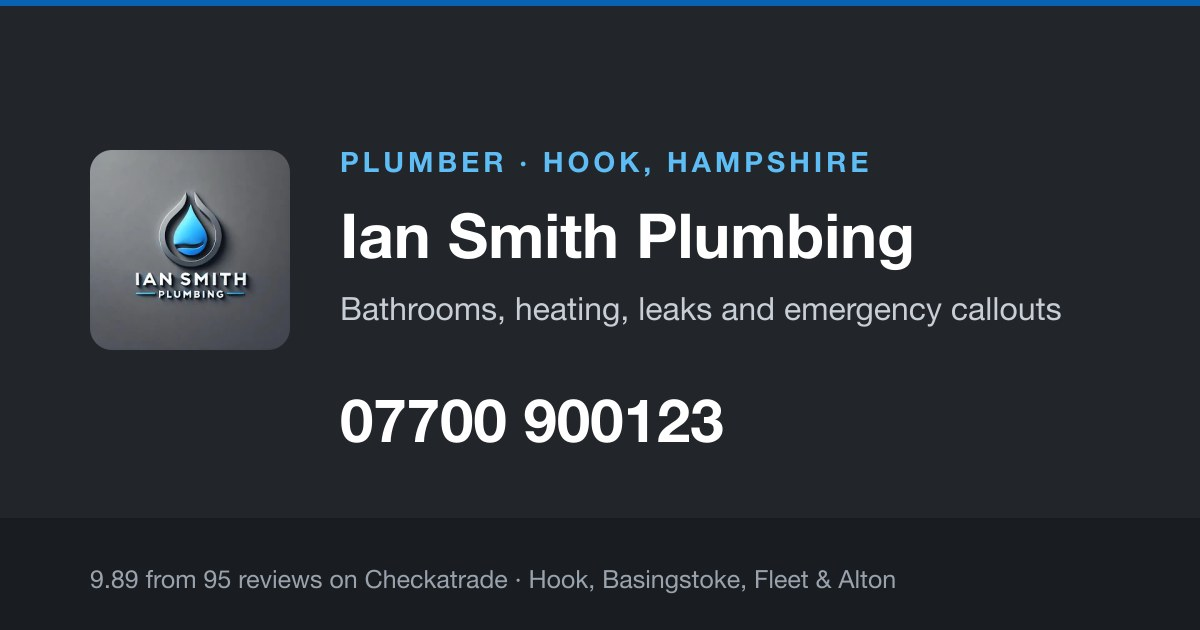
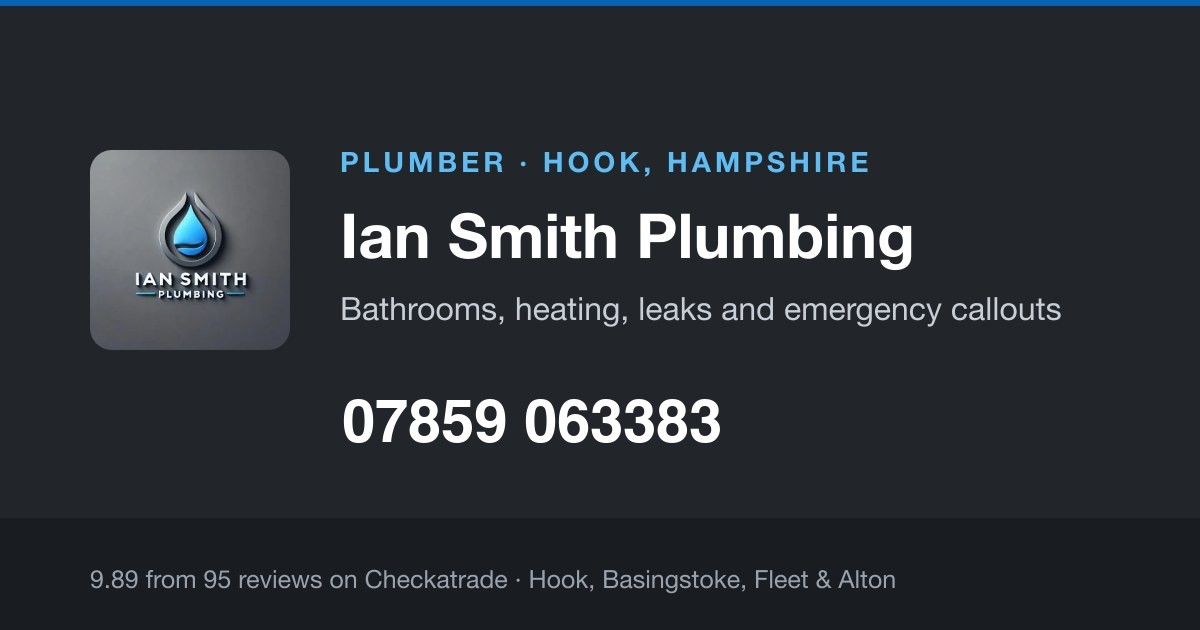
chore: go live with Ian's real details; drop template and demo framing
- client.ts: real phone (07859 063383) and siteUrl (iansmithplumbing.co.uk);
  demo examples and comments removed
- og.jpg: share card showed the demo number; now shows his real one
- SCAFFOLD: rewritten as the live site's spec (launch checklist, no demo
  config, no per-client table)
- README, package name, FIXES note and a CSS comment updated to match

Changed region(s): [[0.2775, 0.6333, 0.6167, 0.7238]]

diff --git a/src/config/client.ts b/src/config/client.ts
@@ -20,8 +20,8 @@ export interface Rating {
 }
 
 export interface Area {
-  slug: string     // "middleford"
-  name: string     // "Middleford"
+  slug: string     // "hook"
+  name: string     // "Hook"
   blurb?: string   // optional one-liner for the area page
 }
 
@@ -52,7 +52,7 @@ export interface ClientConfig {
   headline?: string
 
   // site
-  siteUrl: string               // 'https://tradedemo.mpconsult.uk' — no trailing slash
+  siteUrl: string               // 'https://iansmithplumbing.co.uk' — no trailing slash
   ogImage?: string              // '/og.jpg' — 1200×630; omitted = no og:image tags
   /** Hero photograph. Omitted = text-only hero. */
   heroImage?: Photo
@@ -61,9 +61,9 @@ export interface ClientConfig {
   logo?: Photo
 
   // contact
-  phone: string                 // display: "07700 900123"
-  phoneE164: string             // tel: href, "+447700900123"
-  whatsappNumber: string        // wa.me, no + and no spaces: "447700900123"
+  phone: string                 // display: "07859 063383"
+  phoneE164: string             // tel: href, "+447859063383"
+  whatsappNumber: string        // wa.me, no + and no spaces: "447859063383"
   email?: string
 
   // credentials
@@ -113,7 +113,7 @@ export interface ClientConfig {
   eventEndpoint?: string        // n8n webhook for click events
 }
 
-// src/config/client.ts — DEMO DATA. Overwrite in each client repo.
+// src/config/client.ts — Ian Smith Plumbing.
 export const client: ClientConfig = {
   businessName: 'Ian Smith Plumbing',
   tagline: 'Bathrooms, heating, leaks and emergency callouts',
@@ -125,7 +125,7 @@ export const client: ClientConfig = {
   owner: 'Ian',
   voice: 'i',
 
-  siteUrl: 'https://tradedemo.mpconsult.uk',
+  siteUrl: 'https://iansmithplumbing.co.uk',
   ogImage: '/og.jpg',
 
   // Placeholder stock, free under the Pexels licence, no attribution required:
@@ -139,10 +139,11 @@ export const client: ClientConfig = {
     alt: 'Plumber fitting a radiator valve, pipe wrenches laid out beside them',
   },
 
-  // Ofcom's reserved drama range — never a real subscriber
-  phone: '07700 900123',
-  phoneE164: '+447700900123',
-  whatsappNumber: '447700900123',
+  // His mobile — calls and WhatsApp both. They only diverge if a call-tracking
+  // number is added later: phoneE164 changes, whatsappNumber stays.
+  phone: '07859 063383',
+  phoneE164: '+447859063383',
+  whatsappNumber: '447859063383',
 
   // No gasSafe: he can take on gas jobs through a registered engineer, but the
   // site doesn't advertise gas work for now.
@@ -167,8 +168,8 @@ export const client: ClientConfig = {
     "in people's homes and to leave things tidy, and I've kept that up. If " +
     "you've got an emergency, give me a ring and I'll tell you what to do " +
     'until I get there.',
-  // No aboutImage in the demo on purpose: a stock portrait presented as the
-  // owner reads as fake, which is worse than no photo. Clients supply their own.
+  // No aboutImage on purpose: a stock portrait presented as the
+  // owner reads as fake, which is worse than no photo. Waiting on a real one of Ian.
 
   since: 2019,
   // Postcodes on his reviews: RG27 Hook, RG21/RG23 Basingstoke, RG29 Odiham,

diff --git a/src/styles/global.css b/src/styles/global.css
@@ -99,7 +99,7 @@
 /* Full-width bands in the client's colour — header, services, call band.
    The accent is picked to carry white text (client.ts checks it clears
    4.5:1), so everything inside goes white or translucent white. Muted text at
-   88% still clears 4.5:1 on the demo blue; cards and borders are white washes
+   88% still clears 4.5:1 on Ian's blue; cards and borders are white washes
    so they tint with whatever accent the client has. */
 .on-accent {
   --text: #ffffff;

diff --git a/SCAFFOLD.md b/SCAFFOLD.md
@@ -1,8 +1,8 @@
-# SCAFFOLD — Local trade site template
+# SCAFFOLD — Ian Smith Plumbing website
 
 **Drop this in the repo root and point Claude Code at it.**
 
-Astro + Tailwind. Static. Deploys to Cloudflare Pages. One config file drives everything so a new client is a data swap, not a rebuild.
+Astro + Tailwind. Static. Deploys to Cloudflare Pages at `iansmithplumbing.co.uk`. This is Ian's live site. It began as a reusable trade-site template, and it's still built so one config file drives everything; that's what keeps it cheap to change, and it means the code could seed another trade's site later.
 
 ---
 
@@ -10,7 +10,7 @@ Astro + Tailwind. Static. Deploys to Cloudflare Pages. One config file drives ev
 
 **No client-specific string appears anywhere except `src/config/client.ts`.**
 
-Not in a component, not in a page, not in a meta tag. If onboarding client two means editing one file and dropping in new photos, the template works. If it means grepping for "Ian", it doesn't.
+Not in a component, not in a page, not in a meta tag. Changing his phone number, his areas or his wording is an edit to one file, never a grep for "Ian".
 
 ---
 
@@ -88,79 +88,15 @@ export interface ClientConfig {
 }
 ```
 
-### The template must run standalone
+### Ian's config
 
-**The template ships with a complete demo config — never a client's.** `npm install && npm run dev` on a fresh clone must produce a finished-looking site with no edits.
+`src/config/client.ts` holds Ian's real data: business name, his mobile (`07859 063383`, which is used for calls and WhatsApp alike), `siteUrl: 'https://iansmithplumbing.co.uk'`, his areas, services, reviews and Checkatrade rating. The comments beside each value say where it came from.
 
-Three reasons this matters:
-
-1. You can run the template itself to check nothing broke after a change
-2. Deployed, it's a **live demo for prospects** — "here's what you'd get" beats any mockup
-3. A complete demo config proves the optional paths render (no reviews, no Gas Safe number)
-
-**Client data never enters the template repo.** A client repo is generated from the template, and `client.ts` is overwritten there with real values. Ian's site is `iansmithplumbing-site`, not a branch of the template.
-
-```ts
-// src/config/client.ts — DEMO DATA. Overwrite in each client repo.
-export const client: ClientConfig = {
-  businessName: 'Marlow & Sons Plumbing',
-  tagline: 'Leaks, burst pipes and emergency callouts',
-  trade: 'plumber',
-  owner: 'Dave',
-
-  // Ofcom's reserved drama range — never a real subscriber
-  phone: '07700 900123',
-  phoneE164: '+447700900123',
-  whatsappNumber: '447700900123',
-
-  gasSafeNumber: '123456',
-  insured: true,
-
-  baseTown: 'Middleford',
-  areas: [
-    { slug: 'middleford', name: 'Middleford' },
-    { slug: 'ashcombe', name: 'Ashcombe' },
-    { slug: 'netherby', name: 'Netherby' },
-    { slug: 'stanton-green', name: 'Stanton Green' },
-  ],
-
-  services: [
-    'Leak repair', 'Burst pipes', 'Emergency callouts',
-    'Taps and toilets', 'Radiators', 'Blocked drains',
-  ],
-  emergencyServices: ['Leak repair', 'Burst pipes', 'No water'],
-
-  reviews: [
-    { quote: 'Came out the same evening for a burst pipe. Sorted in an hour.', author: 'Sarah M.', source: 'Checkatrade' },
-    { quote: 'Honest, tidy, and told me what I did not need doing.', author: 'James P.', source: 'Checkatrade' },
-    { quote: 'Quoted on the Monday, done by Wednesday. No fuss.', author: 'Angela R.', source: 'Google' },
-  ],
-
-  accent: '#1f4e79',
-  accentDark: '#153854',
-}
-```
-
-**Keep the demo data safe.** Phone numbers come from Ofcom's reserved `07700 900xxx` drama range so no real person ever gets called.
-
-**No demo banner.** There used to be an `isDemo` flag that rendered a *"Demo site"* strip across the top. It's gone: the page is shown to prospects as it would look live, and a banner across the top undercuts exactly that.
-
-### Per-client values
-
-These go in the **client repo**, not here. Anything not yet known stays as the literal `'TODO'` and renders as a visible placeholder, so a missing phone number is obvious on the page rather than silently blank.
-
-Ian's, for reference when you generate his repo:
-
-| Field | Value |
-|---|---|
-| `businessName` | Ian Smith Plumbing |
-| `baseTown` | Newnham (Hampshire, RG27) |
-| `areas` | TODO — confirm radius. First guess: Hook, Hartley Wintney, Odiham, Fleet, Basingstoke |
-| `phone` / `phoneE164` / `whatsappNumber` | TODO |
-| `gasSafeNumber` | TODO — confirm he does gas at all |
-| `reviews` | TODO — 3–4 short quotes from his Checkatrade listing |
+Anything not yet known stays as the literal `'TODO'` and renders as a visible placeholder, so a missing value is obvious on the page rather than silently blank. **A `TODO` badge on the live site is a bug.** Check for them before every deploy.
 
 > **Phone note:** `phoneE164` and `whatsappNumber` are the same number in two formats. They only diverge if a call-tracking number is added later (Tier 2), at which point `phoneE164` changes and `whatsappNumber` stays on the mobile.
+
+**The buttons ring Ian's real phone.** Test the tel: and wa.me links by reading the markup, not by tapping them, unless Ian knows to expect the call.
 
 ---
 
@@ -372,35 +308,34 @@ Cloudflare Pages, connected to the repo. Domain, DNS and hosting in one account.
 
 ---
 
-## Definition of done for the template
+## Definition of done for launch
 
-- [ ] **`git clone && npm install && npm run dev` produces a complete, good-looking demo site with zero edits**
-- [ ] Onboarding a new client = edit `client.ts`, replace photos, deploy
-- [ ] No client name appears outside `client.ts` and `/public`
+- [ ] No `TODO` badge renders anywhere on the site
+- [ ] No business-specific string appears outside `client.ts` and `/public`
 - [ ] Lighthouse mobile ≥ 95 across the board
 - [ ] Button pair works on a real phone — call dials, WhatsApp opens with the prefill
-- [ ] Renders correctly with `reviews: []` and `gasSafeNumber: undefined` — not every client will have them
+- [ ] `public/og.jpg` matches the config: name, number, areas. It's a static image, so a phone or area change in `client.ts` doesn't update it
+- [ ] Link preview checks out: paste the live URL into WhatsApp and confirm the card renders
 
 ---
 
-## Open TODOs before building
+## Open TODOs before launch
 
 Confirmed from his Checkatrade profile (`/trades/iansmithplumbing`): **sole trader, Hook, Hampshire. 9.89 from 95 reviews. Checkatrade member since January 2019. City & Guilds Level 2. Domestic work only.** No Gas Safe accreditation is listed, which matches gas going to his mate.
 
 Blocking:
 
-1. **Phone and WhatsApp number.** The config carries an Ofcom drama number (`07700 900123`) that never connects
-2. **Gas work.** `gasSafe` is omitted for now, so the site says nothing about gas. If it comes back: the engineer's name and registration number, and whether the mate is happy to be named
-3. **Is he actually insured?** `insured: true` is currently an assumption. Checkatrade lists "Insurance Work Undertaken", which means he takes insurance-claim work — it is *not* a statement that he carries public liability cover
+1. **Gas work.** `gasSafe` is omitted for now, so the site says nothing about gas. If it comes back: the engineer's name and registration number, and whether the mate is happy to be named
+2. **Is he actually insured?** `insured: true` is currently an assumption. Checkatrade lists "Insurance Work Undertaken", which means he takes insurance-claim work — it is *not* a statement that he carries public liability cover
 
 Worth having:
 
-4. **The service radius.** Review postcodes prove RG27, RG21, RG23, RG29, GU34 and GU12; the config adds Fleet and Hartley Wintney as adjacent. Confirm the outer edge before generating area pages
-5. **Where he says he is based.** `baseTown` is `'Hook'`; he may prefer Newnham or "the Hook area". One-line change, but it feeds the H1 fallback, the `<title>`, the eyebrow and the schema
-6. **When he actually started trading.** `since: 2019` is his Checkatrade join date, not necessarily his start date — he was at Harrods before plumbing
-7. **A photograph of Ian**, ideally by the van. `aboutImage` stays unset until it arrives. There are 30+ job photos on his profile worth pulling too
-8. **The logo original**, if one exists — SVG or transparent PNG
+3. **The service radius.** Review postcodes prove RG27, RG21, RG23, RG29, GU34 and GU12; the config adds Fleet and Hartley Wintney as adjacent. Confirm the outer edge before generating area pages
+4. **Where he says he is based.** `baseTown` is `'Hook'`; he may prefer Newnham or "the Hook area". One-line change, but it feeds the H1 fallback, the `<title>`, the eyebrow and the schema
+5. **When he actually started trading.** `since: 2019` is his Checkatrade join date, not necessarily his start date — he was at Harrods before plumbing
+6. **A photograph of Ian**, ideally by the van. `aboutImage` stays unset until it arrives. There are 30+ job photos on his profile worth pulling too
+7. **The logo original**, if one exists — SVG or transparent PNG
 
 ### Competition
 
-`simonduffplumbing.co.uk` covers Woking, Guildford, Frimley, Camberley and Farnborough — overlapping patch. Weaker site (mailto as the primary CTA, "Reliable. Trusted. Local." as the H1) but it has the About section, per-service copy and "established 2014" that this template now has. Ian's 9.89 over 95 reviews is the thing they cannot match.
+`simonduffplumbing.co.uk` covers Woking, Guildford, Frimley, Camberley and Farnborough — overlapping patch. Weaker site (mailto as the primary CTA, "Reliable. Trusted. Local." as the H1) but it has the About section, per-service copy and "established 2014" that this site now has. Ian's 9.89 over 95 reviews is the thing they cannot match.

diff --git a/README.md b/README.md
@@ -1,1 +1,13 @@
-# trade-site-template
+# Ian Smith Plumbing — website
+
+The website for Ian Smith Plumbing, a plumber in Hook, Hampshire. Live at https://iansmithplumbing.co.uk.
+
+Astro + Tailwind, fully static, deployed on Cloudflare Pages.
+
+```sh
+npm install
+npm run dev      # local dev server
+npm run build    # static output in dist/
+```
+
+Everything specific to the business lives in `src/config/client.ts` (the data) and `src/config/copy.ts` (the wording). `SCAFFOLD.md` is the spec and explains the decisions behind the design.

diff --git a/FIXES.md b/FIXES.md
@@ -1,4 +1,6 @@
 # FIXES — homepage review, round 1
+
+> **Applied — kept for the reasoning only.** Written when this repo was a demo template (Marlow & Sons, `tradedemo.mpconsult.uk`, a demo banner). None of those exist any more; the site is Ian's, live at `iansmithplumbing.co.uk`. Where this file and the code disagree, the code and `SCAFFOLD.md` win.
  
 Apply in order. Config first, then components. Re-run Lighthouse at the end.
  
